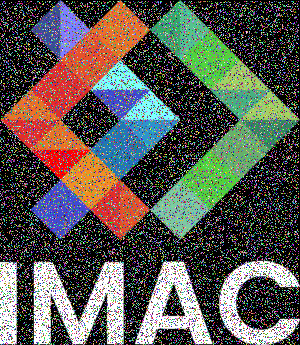
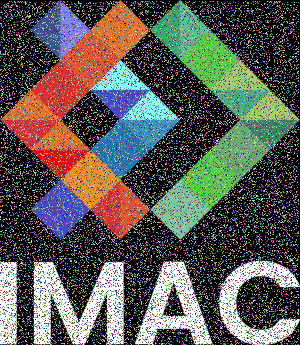
convolution avec boucles

diff --git a/src/main_lison.cpp b/src/main_lison.cpp
@@ -527,4 +527,26 @@ void main_lison()
     image.save("output_l/convolution_moyenne.png");
 }
 
+{
+    //Avec autres boucles
+    sil::Image image {"images/logo.png"};
+    for(int x {0}; x<image.width(); x++){
+        for(int y {0}; y<image.height(); y++){
+            int i {0}, j {0};
+            int iter {0};
+            if((x>=6 && x<image.width()-10) && (y>=10 && y<image.height()-6)){
+                for(i; i<6; i++){
+                    for(j; j<6; j++){
+                        image.pixel(x, y) += image.pixel(x+i, y+j)+image.pixel(x-i, y-j);
+                        iter+=2;
+                    }
+                }
+                image.pixel(x, y) /= glm::vec3(iter);
+            }
+            
+        }
+    }
+    image.save("output_l/convolution.png");
+}
+
 }
